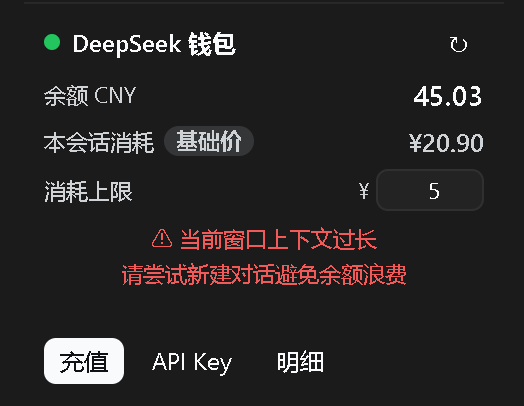
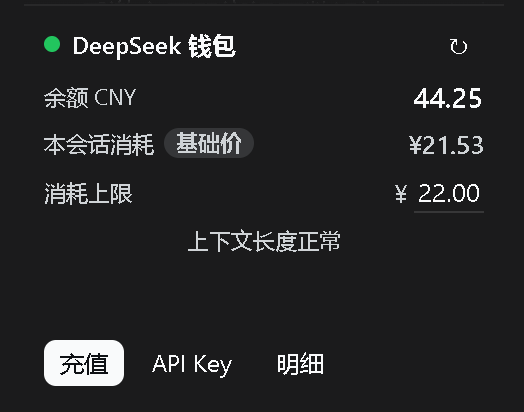
feat: v1.1.1 消耗上限按会话独立设置+隐式下划线输入框+数字居中两位小数

diff --git a/lib/client.js b/lib/client.js
@@ -64,9 +64,10 @@ window.__ModuleLoader__.load({
 .dsw-bal-val{font-weight:600;font-size:14px;font-variant-numeric:tabular-nums;}
 .dsw-cost-val{font-weight:600;font-size:13px;font-variant-numeric:tabular-nums;color:var(--dsw-alias-label-secondary);cursor:default;}
 .dsw-threshold-wrap{display:inline-flex;align-items:center;gap:3px;}
-.dsw-threshold-symbol{color:var(--dsw-alias-label-secondary);font-size:11px;}
-.dsw-threshold-input{width:54px;background:var(--dsw-alias-bg-layer-1);border:1px solid var(--dsw-alias-border-l1);color:var(--dsw-alias-label-primary);border-radius:6px;padding:2px 6px;font-size:11px;font-family:inherit;text-align:right;font-variant-numeric:tabular-nums;box-sizing:border-box;}
-.dsw-threshold-input:focus{outline:none;border-color:var(--dsw-alias-brand-primary);}
+.dsw-threshold-symbol{color:var(--dsw-alias-label-secondary);font-size:13px;}
+.dsw-threshold-input{width:5ch;min-width:5ch;background:transparent;border:none;border-bottom:1px solid var(--dsw-alias-border-l2);color:var(--dsw-alias-label-primary);border-radius:0;padding:1px 2px;font-size:13px;font-family:inherit;text-align:center;font-variant-numeric:tabular-nums;box-sizing:border-box;-moz-appearance:textfield;}
+.dsw-threshold-input::-webkit-outer-spin-button,.dsw-threshold-input::-webkit-inner-spin-button{-webkit-appearance:none;margin:0;}
+.dsw-threshold-input:focus{outline:none;border-bottom-color:var(--dsw-alias-brand-primary);}
 .dsw-center{text-align:center;line-height:1.6;}
 .dsw-cost-wrap{position:relative;display:inline-flex;}
 .dsw-tooltip{display:none;position:absolute;right:0;top:calc(100% + 6px);z-index:50;min-width:220px;background:var(--dsw-alias-bg-overlay);border:1px solid var(--dsw-alias-border-l2);border-radius:8px;padding:7px 9px;flex-direction:column;gap:4px;box-shadow:var(--dsw-shadow-lv2);}
@@ -154,16 +155,16 @@ window.__ModuleLoader__.load({
       const currency = view && (view.currency || (view.balances[0] && view.balances[0].currency)) || 'CNY';
       const total = view && view.total !== undefined ? view.total : undefined;
       const costTotal = cost && cost.ok === true && cost.cost !== undefined ? cost.cost : undefined;
-      const threshold = view && view.costThreshold !== undefined ? view.costThreshold : 5;
+      const threshold = cost && cost.ok === true && cost.costThreshold !== undefined ? cost.costThreshold : 5;
       const overThreshold = costTotal !== undefined && costTotal > threshold;
 
       const saveThreshold = (val) => {
         const t = Number(val);
         setThresholdDraft(null);
         if (!Number.isFinite(t) || t < 0 || t === threshold) return;
-        fetch('/wallet/api/set-threshold', { method: 'POST', headers: { 'Content-Type': 'application/json' }, body: JSON.stringify({ threshold: t }) })
+        fetch('/wallet/api/set-threshold', { method: 'POST', headers: { 'Content-Type': 'application/json' }, body: JSON.stringify({ session: currentSessionId, threshold: t }) })
           .then((r) => r.json())
-          .then((v) => { if (v && v.ok) { apiGet('/wallet/api/balance').then((b) => setView(b), () => {}); } })
+          .then((v) => { if (v && v.ok) { setCost((c) => (c ? { ...c, costThreshold: v.costThreshold } : c)); } })
           .catch(() => {});
       };
 
@@ -215,8 +216,8 @@ window.__ModuleLoader__.load({
             h('span', { className: 'dsw-threshold-symbol' }, '¥'),
             h('input', {
               className: 'dsw-threshold-input',
-              type: 'number', min: 0, step: 0.5,
-              value: thresholdDraft !== null ? thresholdDraft : threshold,
+              type: 'number', min: 0, step: 0.01,
+              value: thresholdDraft !== null ? thresholdDraft : (Number.isFinite(threshold) ? threshold.toFixed(2) : '5.00'),
               onChange: (e) => setThresholdDraft(e.target.value),
               onBlur: (e) => saveThreshold(e.target.value),
               onKeyDown: (e) => { if (e.key === 'Enter') e.target.blur(); },

diff --git a/lib/index.js b/lib/index.js
@@ -67,7 +67,7 @@ export function apply(ctx) {
   let balanceView = null;
   let balanceAt = 0;
   let inflight = null;
-  let costThreshold = 5; // 上下文消耗告警阈值（CNY，默认 5 元）
+  const costThresholds = new Map(); // 每个会话独立的消耗上限（默认 5 元）
 
   async function resolveKey() {
     if (!credentials) return "";
@@ -118,7 +118,6 @@ export function apply(ctx) {
           fetchedAt,
           available: body.is_available !== false,
           balances: buckets,
-          costThreshold,
           ...(total !== undefined && !Number.isNaN(total) ? { total, currency: buckets[0].currency } : {}),
           ...(low.length ? { low } : {}),
         };
@@ -206,16 +205,17 @@ export function apply(ctx) {
     if (!sid) return { ok: false, error: "missing-session" };
     const session = resolveSession(sid);
     if (!session) return { ok: false, error: "unknown-session" };
-    return { ok: true, ...sessionCost(session) };
+    return { ok: true, costThreshold: costThresholds.get(sid) ?? 5, ...sessionCost(session) };
   });
   registerRoute("POST", "/wallet/api/set-threshold", async (req) => {
     let body = "";
     try { for await (const chunk of req) body += chunk; } catch { /* ignore */ }
     let parsed = {};
     try { parsed = body ? JSON.parse(body) : {}; } catch { /* ignore */ }
+    const sid = typeof parsed.session === "string" ? parsed.session : "";
     const t = Number(parsed.threshold);
-    if (Number.isFinite(t) && t >= 0) costThreshold = t;
-    return { ok: true, costThreshold };
+    if (sid && Number.isFinite(t) && t >= 0) costThresholds.set(sid, t);
+    return { ok: true, costThreshold: sid ? (costThresholds.get(sid) ?? 5) : 5 };
   });
 
   // —— 模型工具 ——
